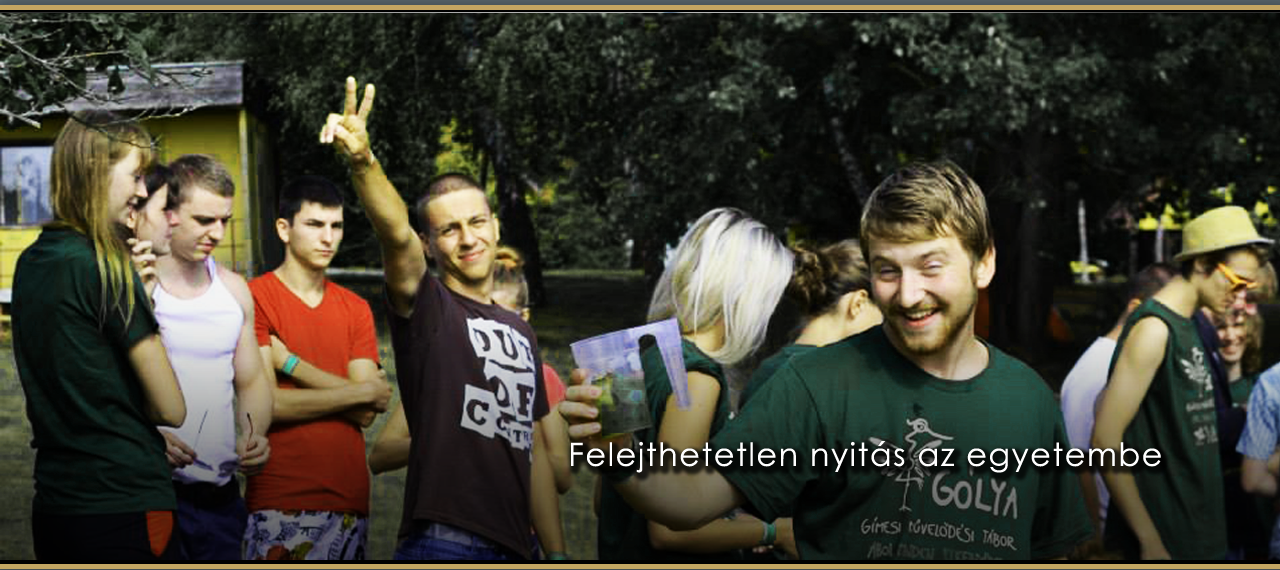
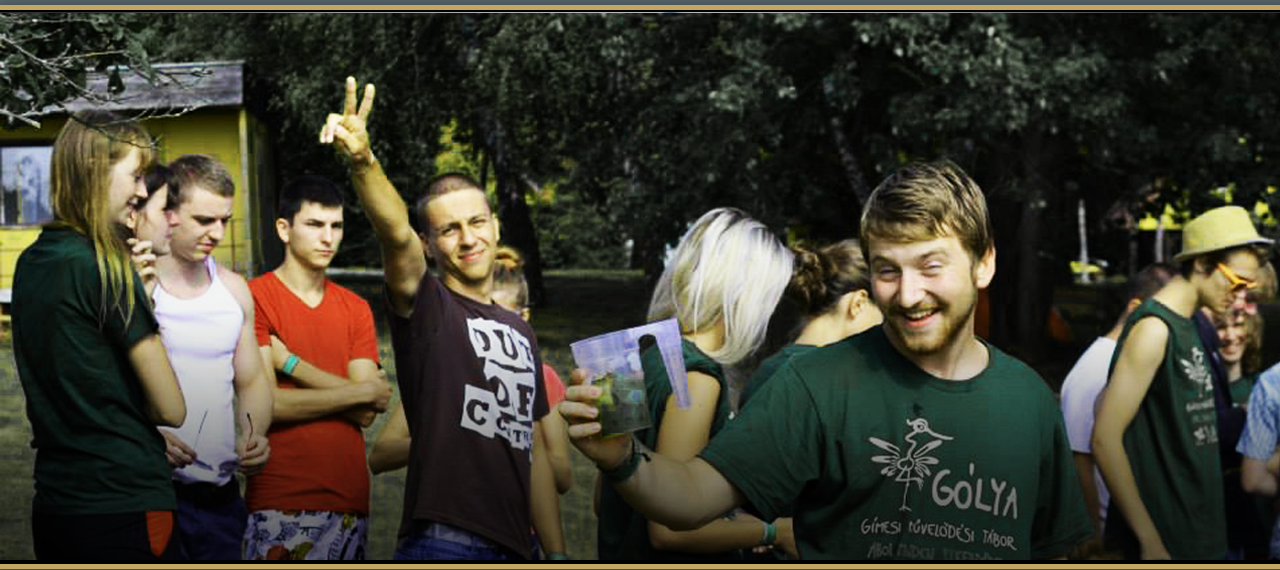
header added

Changed region(s): [[0.4375, 0.7754, 0.9062, 0.8351]]

diff --git a/css/style.css b/css/style.css
@@ -1,15 +1,76 @@
 body{
 	margin:0;
+	background: #92aab3;
 }
 
 .container{
 	width:1280px;
 	margin:0 auto;
 	position: relative;
+
 }
 
 .header{
 	height: 570px;
 	width:100%;
 	background: url(../img/header-bg.png) no-repeat;
+	background-size:cover;
+	position: relative;
+	-webkit-box-shadow: 0px 4px 76px 6px rgba(0,0,0,0.6);
+	-moz-box-shadow: 0px 4px 76px 6px rgba(0,0,0,0.6);
+	box-shadow: 0px 4px 76px 6px rgba(0,0,0,0.6);
+}
+
+.menu{
+	position: absolute;
+	width:100%;
+	bottom:35px;
+	height: 43px;
+	background: url(../img/menu-bg.png) repeat-x;
+}
+
+.logo{
+	position: absolute;
+	display: block;
+	width:205px;
+	height: 196px;
+	left:110px;
+	top:20px;
+	background: url(../img/gimes-logo.png) no-repeat;
+}
+
+.top-overlay{
+	position: absolute;
+	width:100%;
+	height: 74px;
+	background: url(../img/header-top-overlay.png) repeat-x;
+	top:0px;
+}
+
+.top-text{
+	position: absolute;
+	left:320px;
+	top:15px;
+	background: url(../img/header-text.png);
+	width: 863px;
+	height: 127px;
+} 
+
+.content{
+	width: 1050px;
+	margin:0 auto;
+	margin-top:15px;
+	background: url(../img/content-bg.png) repeat-y;
+	min-height: 500px;
+	position: relative;
+}
+
+.fb-logo{
+	width: 52px;
+	height: 52px;
+	position: absolute;
+	display: block;
+	background: url(../img/fb-logo.png) no-repeat;
+	top:0;
+	left:-52px;
 }

diff --git a/index.html b/index.html
@@ -14,11 +14,25 @@
   </head>
 
   <body>
+    <!-- START OF HEADER -->
+    <div class="header">
 
-    <div class="container">
-      <div class="header">
+      <div class="top-overlay"></div>
+      <a class="logo" href="index.html"></a>
+      <div class="top-text"></div>
+      <div class="menu">
         
       </div>
+    </div>
+    <!-- END OF HEADER -->
+    <div class="container">
+
+    <!-- START OF CONTENT -->
+      <div class="content">
+        <div class="fb-logo"></div>
+        
+      </div>
+    <!-- END OF CONTENT -->
     </div>
 
   </body>
